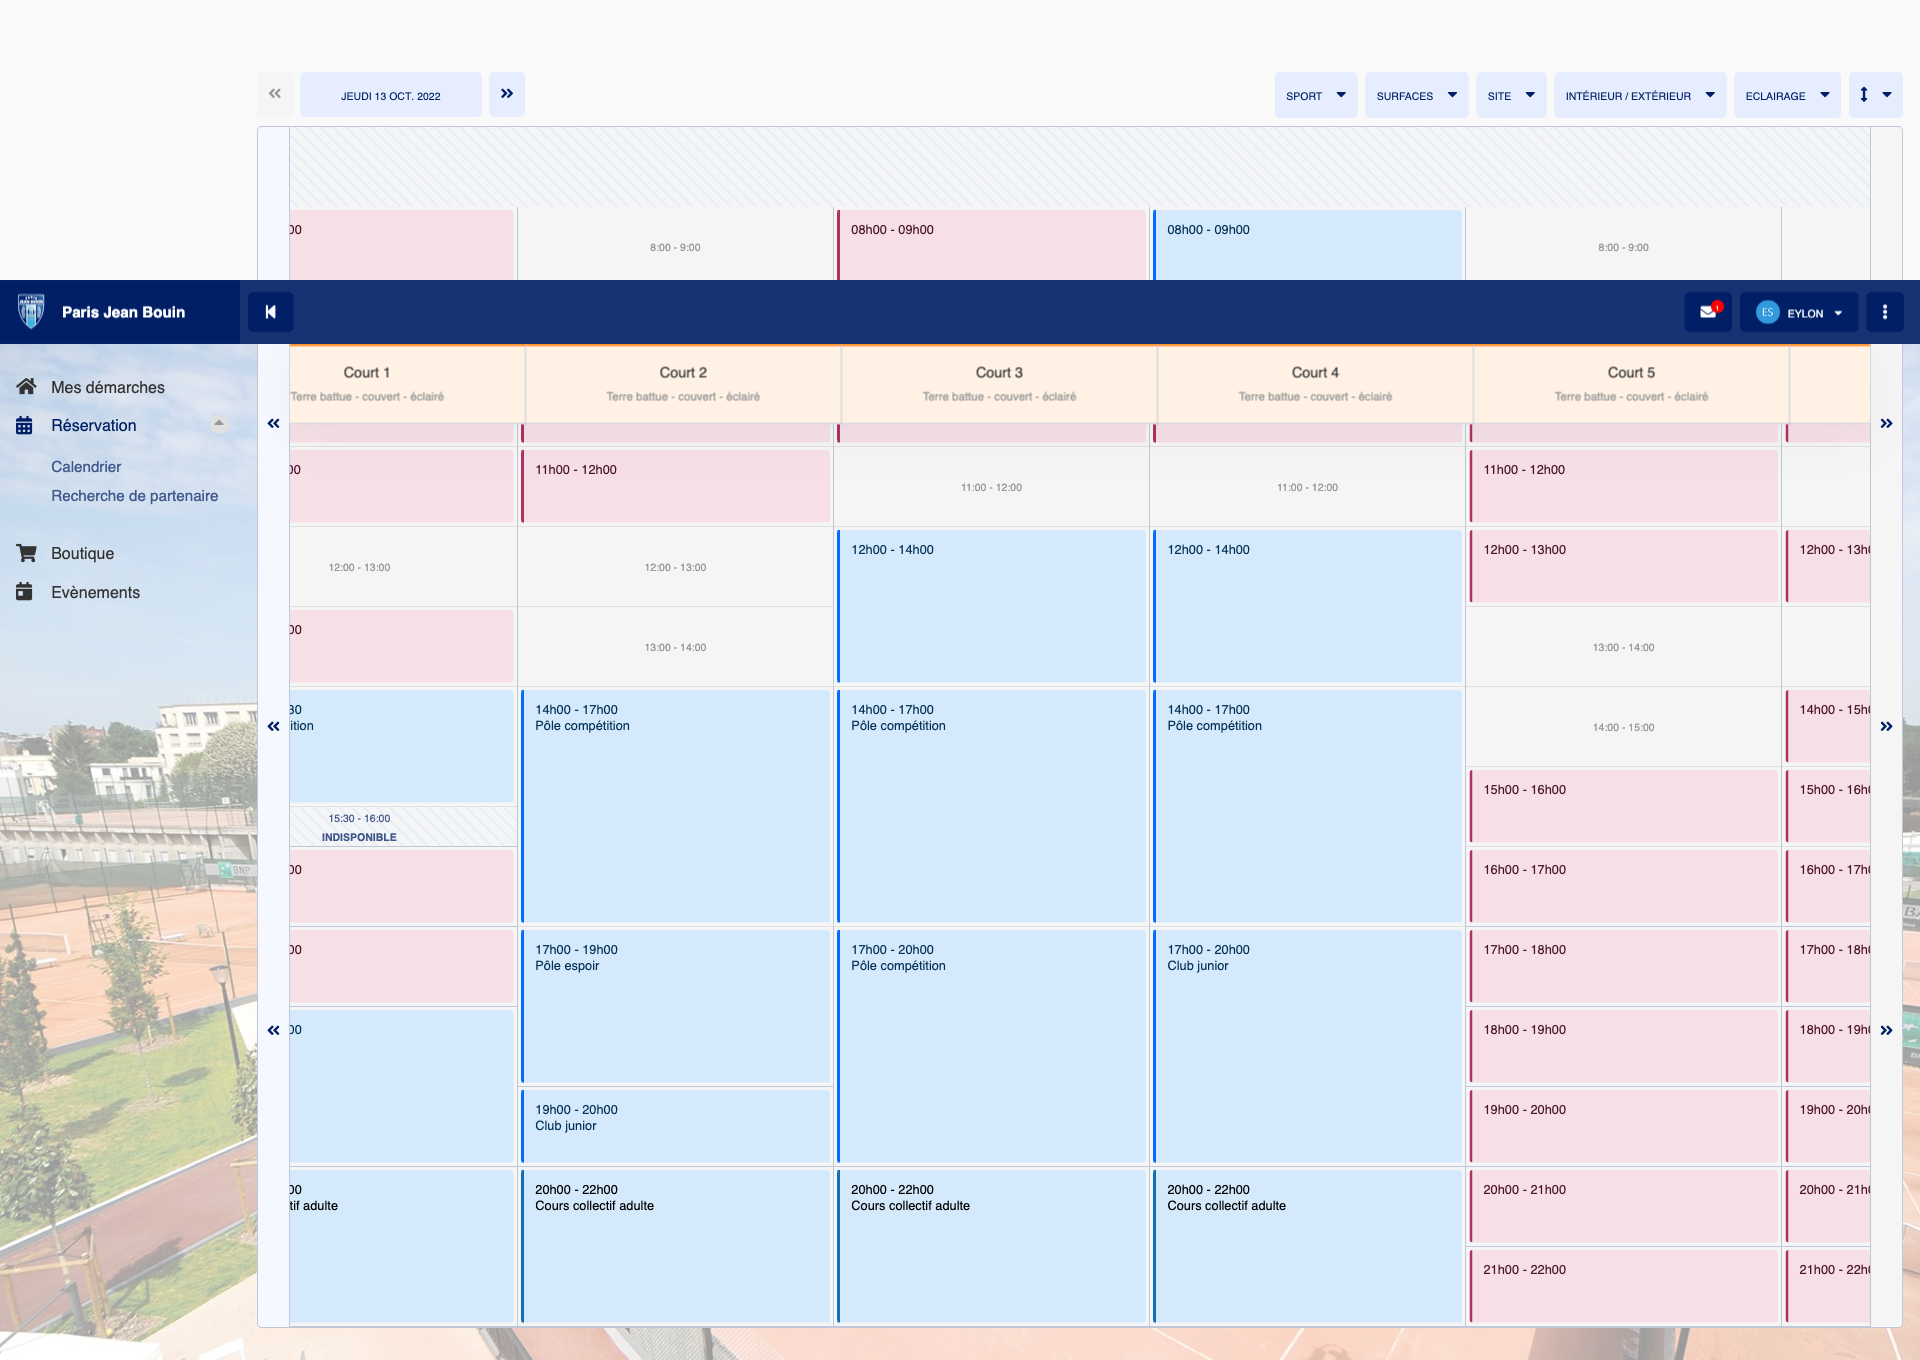
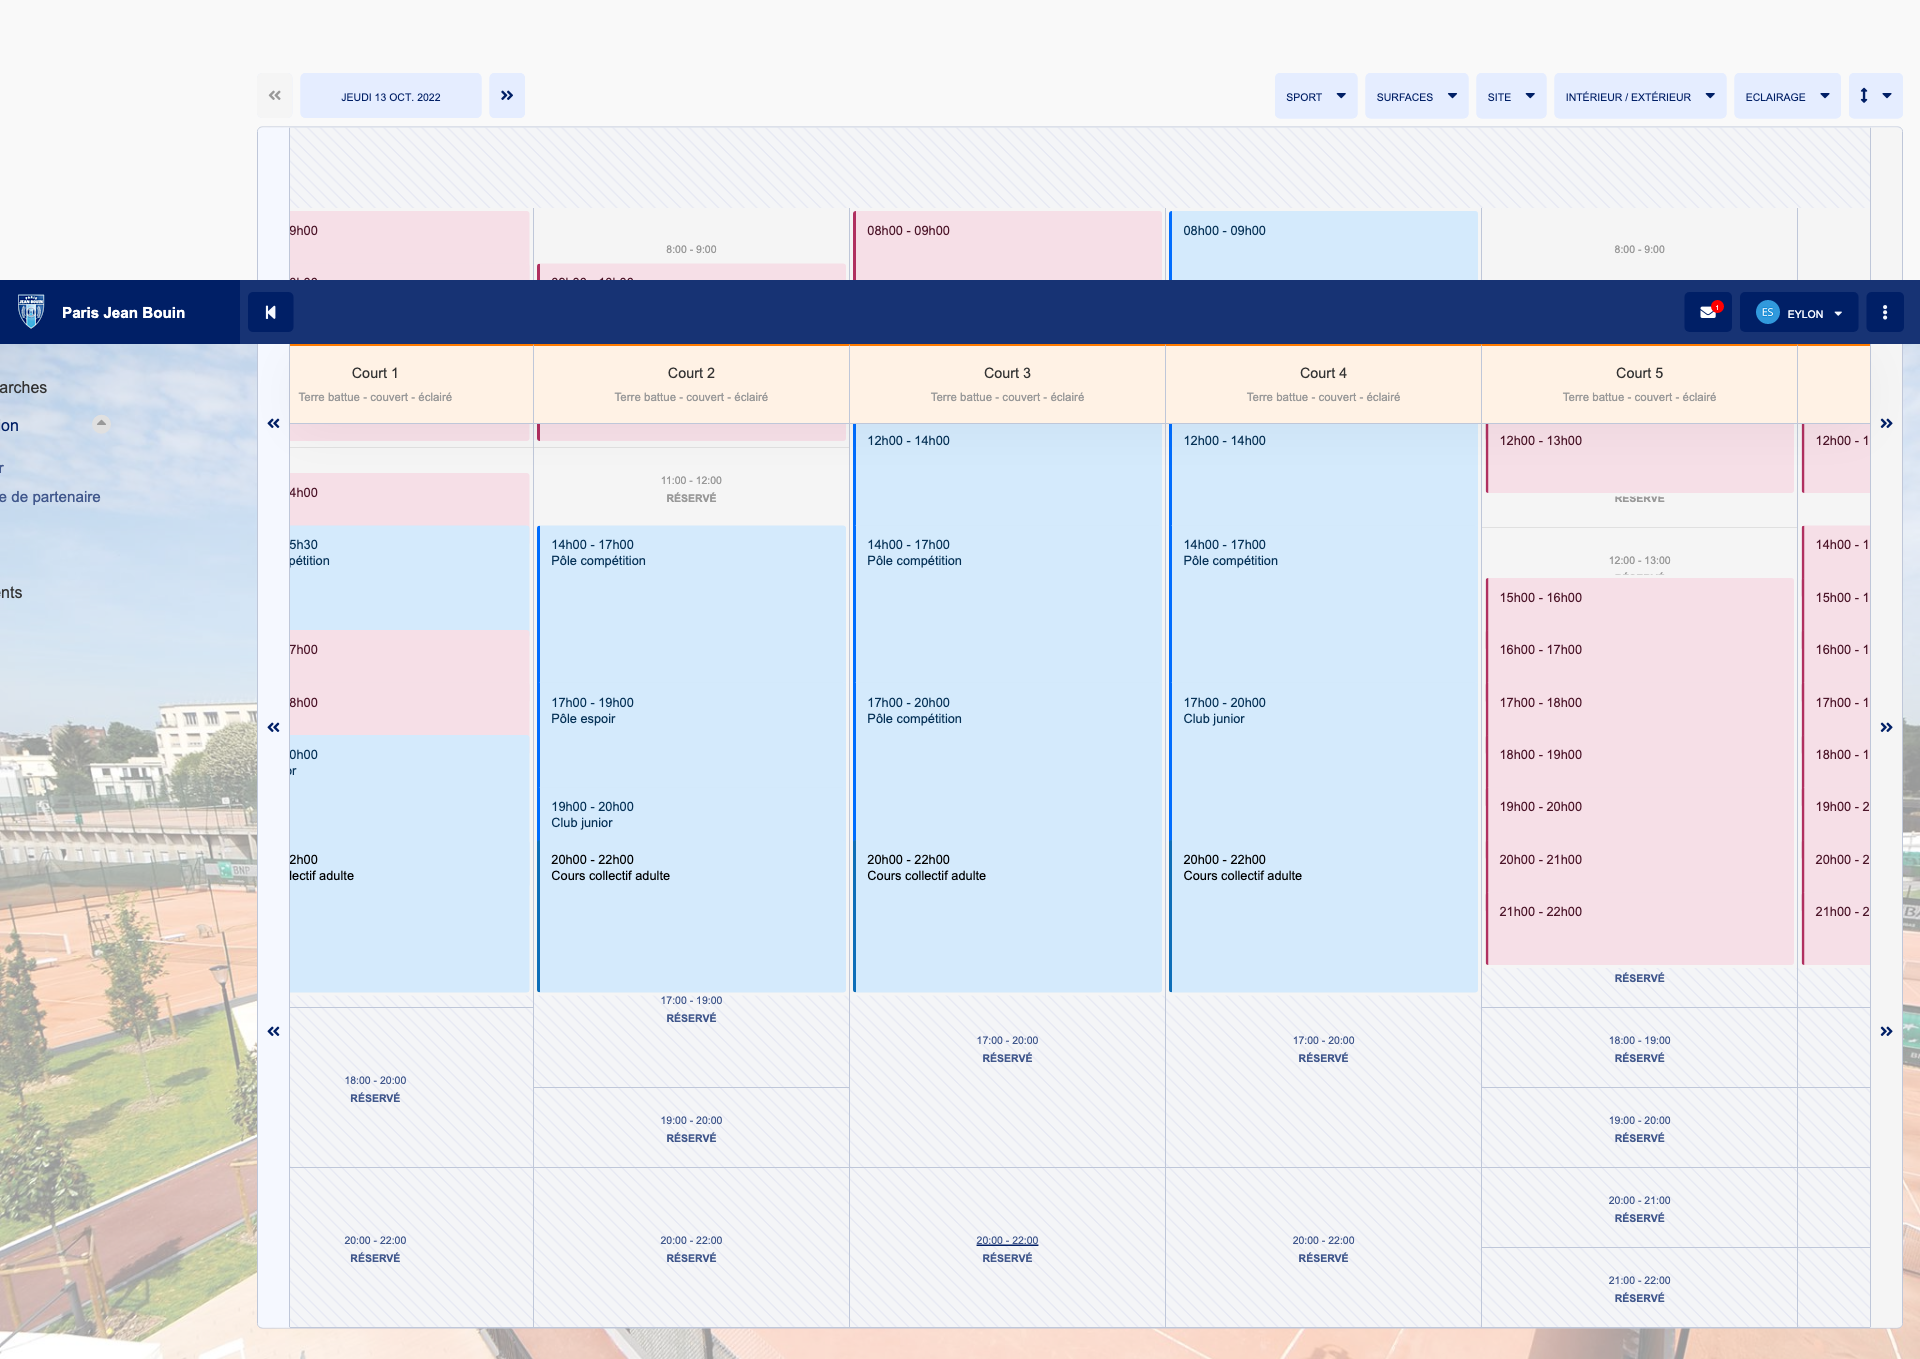
Fix screenshot

diff --git a/script.js b/script.js
@@ -20,11 +20,12 @@ const main = async () => {
     
     const browser = await puppeteer.launch({
         // headless: true,
-        headless: false,
-        defaultViewport: null,
+        // headless: false,
+        // defaultViewport: null,
         userDataDir: `${__dirname}/eylonSession`,
         args: [
-            "--no-sandbox"
+            "--no-sandbox",
+            '--window-size=1920,1080'
         ]
     })
     const pages = await browser.pages();
@@ -86,9 +87,7 @@ const main = async () => {
         await page.click(`[id="track"] > div:nth-child(14) > [data-start-hour="${heure}"]`);
         // await page.waitForSelector(`[id="col-526-${date}"] > [data-start-hour="${heure}"]`);
         // await page.click(`[id="col-526-${date}"] > [data-start-hour="${heure}"]`);
-        await page.waitForSelector('.modal--js-active', {
-            timeout: 20000
-        });
+        await page.waitForSelector('.modal--js-active');
         await page.type('[data-target="app--autocomplete.input"]', partenaire.firstname, {delay: 100});
         await page.waitForSelector(`[data-id="${partenaire.id}"]`, {
             visible: true
@@ -147,15 +146,15 @@ const main = async () => {
     }
 
 }
-main()
-// try {
-//     const reservation = new CronJob({
-//         // cronTime: '0 * 12 * * *',
-//         cronTime: '1 0 8 * * *',
-//         onTick: main(),
-//         timeZone: 'Europe/Paris',
-//         start: true
-//     })
-// } catch (error) {
-//     console.log('Error tâche cron :', error)
-// }
+// main()
+try {
+    const reservation = new CronJob({
+        // cronTime: '0 * 12 * * *',
+        cronTime: '1 0 8 * * *',
+        onTick: main(),
+        timeZone: 'Europe/Paris',
+        start: true
+    })
+} catch (error) {
+    console.log('Error tâche cron :', error)
+}
